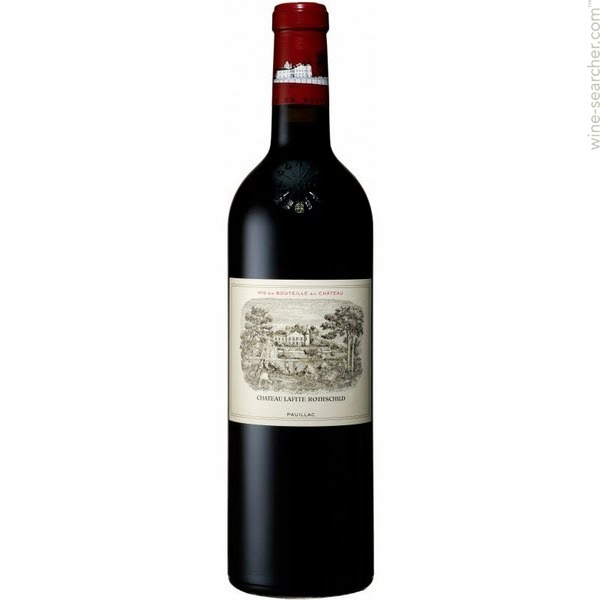
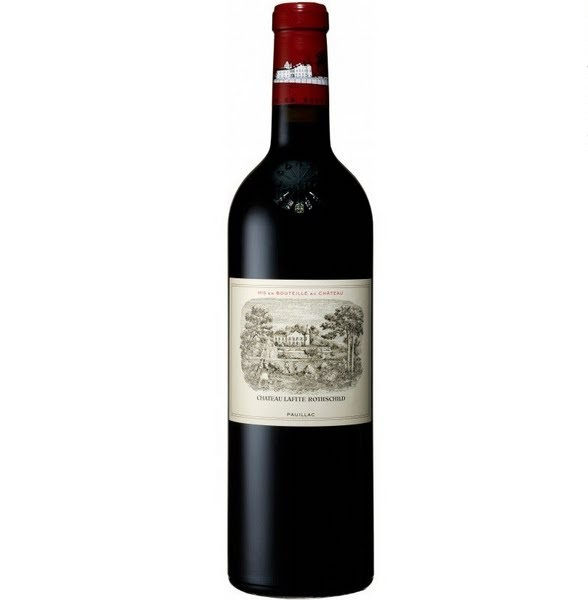
Uppdatering
HTML

Ändrat storleker på olika produktbilder för samtliga underkategorier. Mer symetrisk och balanserat

Lagt till hemsymbol i bred crumbs-sektionen på formulär-sidan.

CSS

Ändrat shopping cart att matcha med storleken på sökfältet

Fixat hamburgermenyns färger, mer synlig.

diff --git a/underkategori/kategori_champange.html b/underkategori/kategori_champange.html
@@ -73,33 +73,33 @@
       </div>
         
         <a href="champange/amourdedeutz.html" class="prodBox">
-            <img src="../bilder/champange/AmourDeDeutz.jpg" alt="prodImg" width="180" title="Amour de Deutz Brut Millesimé">
-            <h4>Amour de Deutz Brut Millesimé</h4>
+            <img src="../bilder/champange/AmourDeDeutz.jpg" alt="prodImg" width="123" title="Amour de Deutz Brut Millesimé">
+            <h4>Amour de Deutz Brut Millesimé<br><br></h4>
             <p>600cl<br>Vol 12%<br><b>Pris 55.650  kr</b></p>
         </a>
         
          <a href="champange/armanddebrignac.html" class="prodBox">
 
-            <img src="../bilder/champange/ArmandDeBrignac.jpg" alt="prodImg" width="180" title="Armand de Brignac Brut Gold">
-            <h4>Armand de Brignac Brut Gold</h4>
+            <img src="../bilder/champange/ArmandDeBrignac.jpg" alt="prodImg" width="153" title="Armand de Brignac Brut Gold">
+            <h4>Armand de Brignac Brut Gold<br><br></h4>
             <p>600cl<br>Vol: 12.5%<br><b>Pris 49.851 kr</b></p>
         </a>
         
          <a href="champange/domperignonwhite.html" class="prodBox">
-            <img src="../bilder/champange/DomPerignon.jpg" alt="prodImg" width="150" title="Dom Perignon White Gold 1995, Jeroboam">
+            <img src="../bilder/champange/DomPerignon.jpg" alt="prodImg" width="100" title="Dom Perignon White Gold 1995, Jeroboam">
             <h4>Dom Perignon White Gold 1995, Jeroboam</h4>
             <p>300cl<br>Vol 12%<br><b>Pris 69.839 kr</b></p>
         </a>
         
          <a href="champange/krugclos.html" class="prodBox">
-            <img src="../bilder/champange/KrugClos.jpg" alt="prodImg" width="150" title="Krug Clos d'Ambonnay 2000 Blanc de Noirs">
+            <img src="../bilder/champange/KrugClos.jpg" alt="prodImg" width="100" title="Krug Clos d'Ambonnay 2000 Blanc de Noirs">
             <h4>Krug Clos d'Ambonnay 2000 Blanc de Noirs</h4>
 			<p>900cl<br>Vol: 12%<br><b>Pris 20.483 kr</b></p>
 
         </a>
 
          <a href="champange/moetandchandon.html" class="prodBox">
-            <img src="../bilder/champange/MoetChandon.jpg" alt="prodImg" width="180" title="Moët & Chandon, Brut Imperial Nabuchodonozor">
+            <img src="../bilder/champange/MoetChandon.jpg" alt="prodImg" width="100" title="Moët & Chandon, Brut Imperial Nabuchodonozor">
             <h4>Moët & Chandon, Brut Imperial Nabuchodonozor</h4>
             <p>1500cl<br>Vol: 12%<br><b>Pris 22.460 kr</b></p>
         </a>

diff --git a/css/style.css b/css/style.css
@@ -87,6 +87,7 @@ header{
 
 #shopping_cart{
     border: 2px solid #ccc;
+    border-radius: 4px;
     margin-left: 5px;
     padding: 8px;
     float: right;
@@ -104,7 +105,6 @@ header{
 .footer {
     margin-top: 20px;
     height: 140px;
-    
     border: 1px solid black;
     text-align: center;
     color:white;
@@ -115,7 +115,6 @@ header{
 
 .footer a{
     height: 100px;
-    
     border: 1px solid black;
     text-align: center;
     color: white;
@@ -452,7 +451,7 @@ header{
 }
 
 #menu a:hover:not(.active){
-  background-color: #ddd;
+  background-color: #A9A9A9;
   padding: 14px 16px;
 }
 
@@ -484,7 +483,7 @@ header{
 }
 
 #menu a:hover:not(.active){
-  background-color: #ddd;
+  background-color: #A9A9A9;
   padding: 14px 16px;
 }
 
@@ -562,22 +561,7 @@ h1 {
     margin: 1.2em 0 0.5em;
     overflow: hidden;
     font-weight: 400;
-    font-size: 1em;
-    letter-spacing: 2px;
-    line-height: 1.3;
-    text-align: center;
-    text-transform: uppercase;
-    border-bottom: solid #bbac78 1px;
-    padding-bottom: 10px;
-}
-
-h4{
-    color: #bbac78;
-    position: relative;
-    margin: 1.2em 0 0.5em;
-    overflow: hidden;
-    font-weight: 400;
-    font-size: 1em;
+    font-size: 1.7em;
     letter-spacing: 2px;
     line-height: 1.3;
     text-align: center;
@@ -597,6 +581,21 @@ h2{
     line-height: 1.3;
     text-align: center;
     text-transform: uppercase;
+}
+
+h4{
+    color: #bbac78;
+    position: relative;
+    margin: 1.2em 0 0.5em;
+    overflow: hidden;
+    font-weight: 400;
+    font-size: 1em;
+    letter-spacing: 2px;
+    line-height: 1.3;
+    text-align: center;
+    text-transform: uppercase;
+    border-bottom: solid #bbac78 1px;
+    padding-bottom: 10px;
 }
 
 p{
@@ -806,12 +805,11 @@ ul{
   #menuToggle span
   {
     display: block;
-    
     width: 33px;
     height: 4px;
     margin-bottom: 5px;
     position: relative;
-    background: #cdcdcd;
+    background: #0a0a0a;
     border-radius: 3px;
     z-index: 1;
     transform-origin: 4px 0px;
@@ -897,6 +895,13 @@ ul{
     transform: none;
   }
     
+#menu a{
+    padding: 14px 16px;
+    display:inline-block;
+    text-decoration: none;
+    color: #0a0a0a;
+}
+    
 .search_bar input[type=text]:focus {
     width: 50%;
 }    
@@ -919,6 +924,7 @@ ul{
     
 #shopping_cart{
     border: 2px solid #ccc;
+    border-radius: 4px;
     margin-left: 5px;
     padding: 3px;
     float: right;

diff --git a/underkategori/underkategori_wine.html b/underkategori/underkategori_wine.html
@@ -64,7 +64,7 @@
       
             <a href="wine/chateau_cheval_blanc.html" class="prodBox">
           
-            <img src="../bilder/wine/chateau_cheval_blanc.jpg" alt="Château Cheval Blanc" width="100">
+            <img src="../bilder/wine/chateau_cheval_blanc.jpg" alt="Château Cheval Blanc" width="115">
             <h4>Château Cheval Blanc</h4>
 
             
@@ -76,7 +76,7 @@
             
             <a href="wine/chateau_lafite_rothschild.html" class="prodBox">
           <div>
-            <img src="../bilder/wine/chateau-lafite-rothschild-pauillac-france.jpg" alt="prodImg" width="170">
+            <img src="../bilder/wine/chateau-lafite-rothschild-pauillac-france.jpg" alt="prodImg" width="190">
             <h4>Château Lafite Rothschild</h4>
 
             
@@ -90,7 +90,7 @@
         <a href="wine/chateau_latuor.html" class="prodBox">
           <div>
             <img src="../bilder/wine/chateau-latour-pauillac.jpg" alt="prodImg" width="110">
-            <h4>Château Latour</h4>
+            <h4>Château Latour<br><br></h4>
 
             
 
@@ -101,7 +101,7 @@
             
         <a href="wine/chateau_margux_2009.html" class="prodBox">
           <div>
-            <img src="../bilder/wine/chateau_marguax_2009_balthazar.jpg" alt="chateu_marguax_2009_balthazar.jpg" width="120">
+            <img src="../bilder/wine/chateau_marguax_2009_balthazar.jpg" alt="chateu_marguax_2009_balthazar.jpg" width="140">
             <h4>Chateau Marguax 2009 Balthazar</h4>
 
 
@@ -114,8 +114,8 @@
 
         <a href="wine/chateau_petrus.html" class="prodBox">
           <div>
-            <img src="../bilder/wine/chateau_petrus_1984.jpeg" alt="Château Pétrus" width="150">
-            <h4>Château Pétrus</h4>
+            <img src="../bilder/wine/chateau_petrus_1984.jpeg" alt="Château Pétrus" width="145">
+            <h4>Château Pétrus<br><br></h4>
 
             
 

diff --git a/Deluxe.html b/Deluxe.html
@@ -70,7 +70,7 @@
         
         </div>
         
-        <h1>Deluxe egna utvalda sprit</h1>
+        <h1>Nyheter</h1>
 
       <div class="slideshow-container">
 
@@ -171,29 +171,28 @@
                   <li><a href="https://www.inet.se/info/10/betalsatt-och-fraktpriser" class="Retur">Retur</a></li>
                   <li><a href="https://www.webdesignerdepot.com/2013/03/20-excellent-contact-pages/" class="Kontakt">Kontakta oss</a></li>
               </ul>
+            
 
-              <ul>
+              <ul>        
                   <li><img class="Visa" src="bilder/visa.png" alt="Visakort" width="45" height="25"></li>
+                  
                   <li><img class="Master" src="bilder/mastercard.png" alt="Masterkort" width="50" height="30"></li>
+                  
                   <li><img class="Swedbank" src="bilder/Swedbank.png" alt="Swed" width="70" height="30"></li>
+                  
                   <li><img class="Paypal" src="bilder/paypal.png" alt="Pay" width="60" height="30"></li>
               </ul>
+            
               <div class="eHandel">
               <img class="Trygge" src="bilder/tryggeHandel.png" alt="TryggeHandel" width="75" height="75">
               </div>
+            
               <div class="Postnord">
               <img class="Nordpost" src="bilder/Postnord.png" alt="Posten" width="75" height="75">
-                  
-                  
-                  
+                   
                   <div id="google_translate_element"></div>
-                  
-                  
-                
+                       
               </div>
-            
-            
-
         </div>
         </div>
       <div>

diff --git a/underkategori/whiskey/Suntory.html b/underkategori/whiskey/Suntory.html
@@ -77,9 +77,9 @@
 
          <div>
             <p id="infoTextProduct">         
-            En fantastisk framtagen whisky av Suntory Yamazaki som har åldrats i 25 år inom körsbärsträ. Den otroligt mörka färgen skulle föreslås att detta härrör från en enastående olorosefat.
+            En fantastisk framtagen whisky av Suntory Yamazaki som har åldrats i hela 25 år inom körsbärsträ. Den otroligt mörka färgen härstammar från ett enastående olorosefat.
             <br><br>
-            Smaker av torkade persikor och päron kombineras med en viss del av rökighet. Denna whisky är både tjock och kryddig och har en antydning av både kanel och lakrits samt en avslutande touch bestående av balanserad kokosnöt.
+            Smaker av torkade persikor och päron i kombination med en viss del av rökighet. Denna whisky är både tjock och kryddig och har en antydning av både kanel och lakrits samt en avslutande touch bestående av en balanserad smak utav kokosnöt.
             </p>
             <ul id="factsProduct">
             <li><b>Ålder:</b> 25 år</li>

diff --git a/underkategori/whiskey/Glenmorangie.html b/underkategori/whiskey/Glenmorangie.html
@@ -77,9 +77,9 @@
             <br>Distillery Bottling</p>
          <div>
             <p id="infoTextProduct">         
-            Destillerad år 1978, denna single malt Scotch whiskey mognades ursprungligen i 19 år innan den fick en extra mognad i 5 mycket speciella franska Premier Grand Cru Claret vinfat.
+            Destillerad år 1978, denna single malt Scotch whiskey lagrades ursprungligen i 19 år, innan den fick en extra lagring i fem mycket speciella franska Premier Grand Cru Claret vinfat.
             <br><br>
-            Smakerna av bakade frukter (äpplen, plommon körsbär och aprikoser) leder till en gedigen och ekig "ryggrad", med aromer av kryddnejlika, kanel, en hög grad anis, kardemumma, kummin, rostad ek och eukalyptus.
+            Smakerna av bakade frukter (äpplen, plommon, körsbär och aprikoser) leder till en gedigen och ekig "ryggrad", med aromer av kryddnejlika, kanel, en hög grad anis, kardemumma, kummin, rostad ek samt eukalyptus.
             </p>
             <ul id="factsProduct">
             <li><b>Ålder:</b> 34 år</li>

diff --git a/underkategori/kategori_vodka.html b/underkategori/kategori_vodka.html
@@ -91,13 +91,13 @@
       <a href="vodka/Iordanov.html" class="prodBox">
         <div>
           <img class="bild4" src="../bilder/vodka/IordanovVodka.jpg" alt="prodImg" width="190">
-          <h4>Iordanov vodka</h4>
+          <h4>Iordanov vodka<br><br></h4>
           <p>Amount: 70cl<br>Vol: 40%<br><b>42.000 kr</b></p>
         </div>
       </a>
       <a href="vodka/Stolichnaya.html" class="prodBox">
         <div>
-          <img class="bild5" src="../bilder/vodka/StolichnayaVodka.jpg" alt="prodImg" width="180">
+          <img class="bild5" src="../bilder/vodka/StolichnayaVodka.jpg" alt="prodImg" width="190">
           <h4>Stolichnaya elit vodka</h4>
           <p>Amount: 175cl<br>Vol: 40%<br><b>28.000 kr</b></p>
         </div>

diff --git a/underkategori/whiskey/Chivas.html b/underkategori/whiskey/Chivas.html
@@ -76,7 +76,7 @@
             <br>Blended Scotch Whisky</p>
          <div>
             <p id="infoTextProduct">
-                Introducerar toppen inom Chivas Regal-serien - The Icon.
+                Introducerar toppen inom Chivas Regal-serien. The Icon.
                 <br><br>Full och fruktig, med smak av söta apelsiner, persikor i sirap och vanilj i överflöd. De söta whiskysmakerna balanseras sedan till perfektion genom hasselnötssmaken som kommer från fatet.</p>
             <ul id="factsProduct">
             <li><b>Ålder:</b> 25 år</li>

diff --git a/underkategori/kategori_whiskey.html b/underkategori/kategori_whiskey.html
@@ -72,7 +72,7 @@
         </a>
         
         <a href="whiskey/Glenmorangie.html" class="prodBox">
-            <img src="../bilder/whiskey/gmgob.1978v1.jpg" alt="prodImgGlenmorangie" width="170" title="Glenmorangie Pride 1978">
+            <img src="../bilder/whiskey/gmgob.1978v1.jpg" alt="prodImgGlenmorangie" width="150" title="Glenmorangie Pride 1978">
             <h4>Glenmorangie Pride 1978</h4>
             <p>100cl
             <br>Vol: 47.4%

diff --git a/underkategori/formular.html b/underkategori/formular.html
@@ -56,7 +56,7 @@
         <div class="breadcrumb">
         <ul>
           <li>
-            <a id="breadcrumb__link" href="../Deluxe.html" title="Hem">
+            <a id="breadcrumb__link" href="../Deluxe.html" title="Hem"><i class="fa fa-home"></i>
             <meta property="" content="Hem">Hem</a>
           </li>
           <li>Bli medlem</li>
